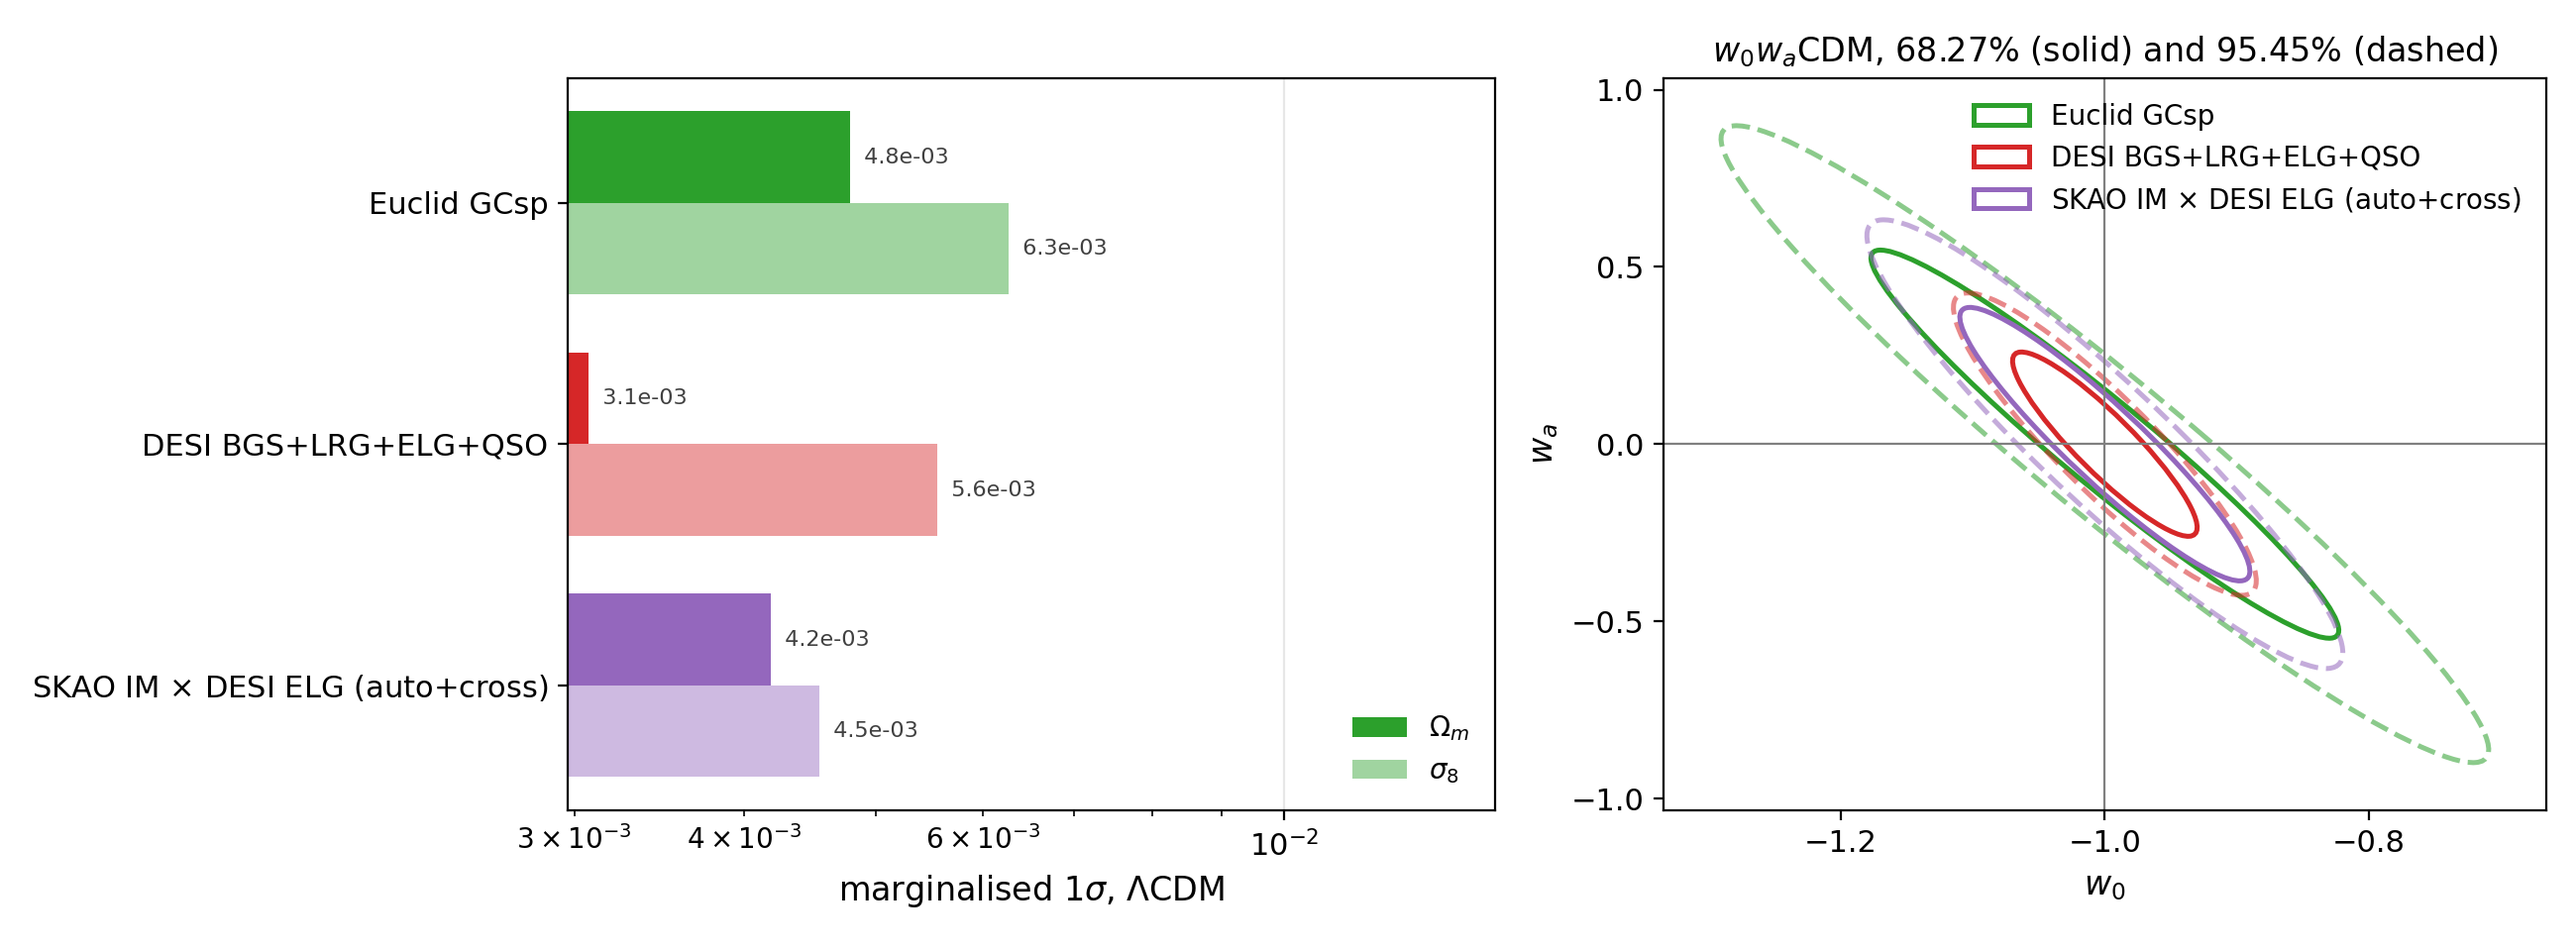
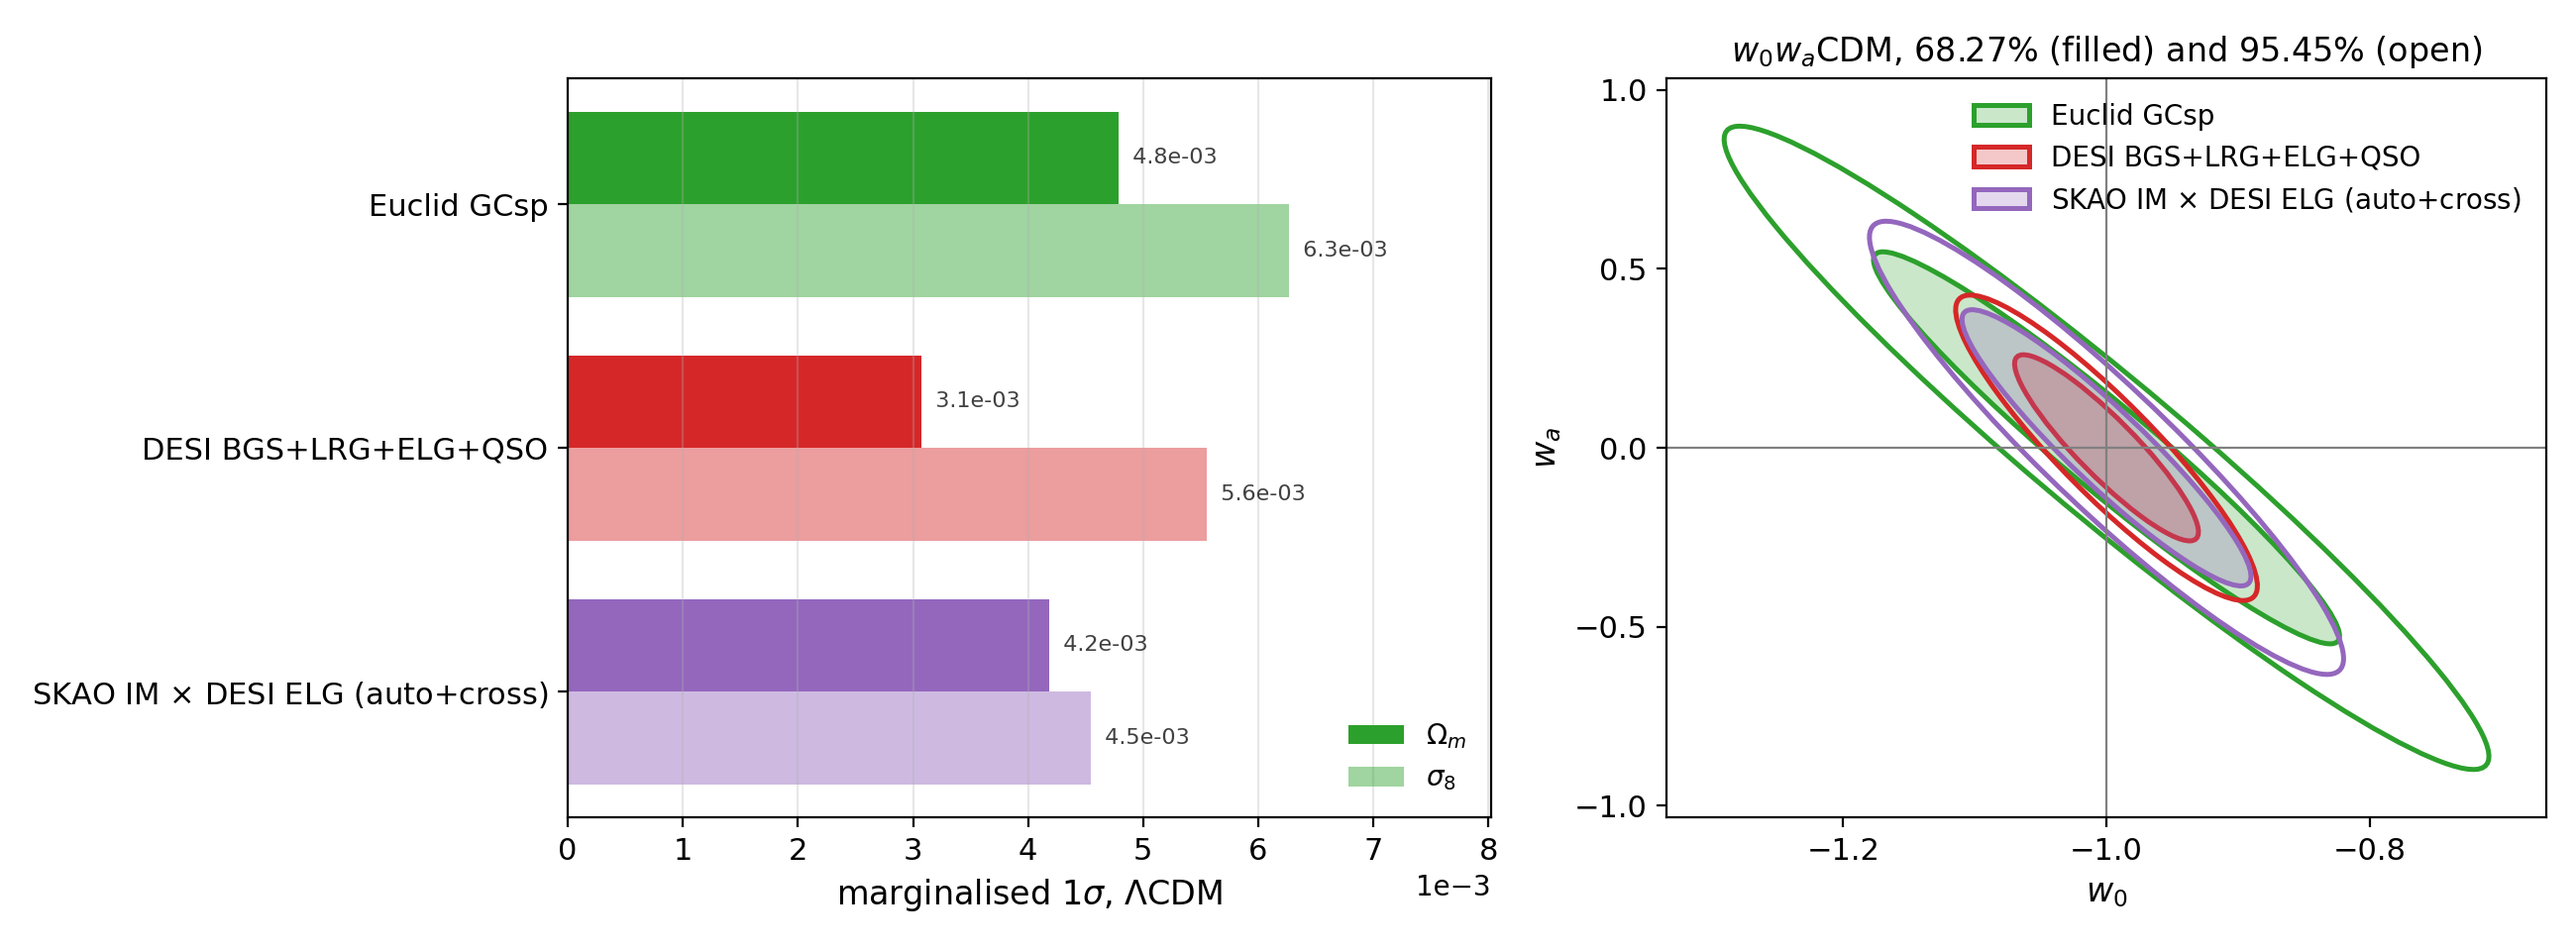
Figure 5: linear bar axis and uniform solid contours
The LCDM bar panel used a log x-axis, so a 3.1e-3 error looked far
smaller than a 4.8e-3 one. Switch to a linear axis with a 1e-3 tick
multiplier, so bar lengths are proportional to the marginalised errors.

In the w0-wa panel, draw every contour solid (no dashed 2-sigma) and
encode the confidence level by fill instead: 68.27% filled, 95.45% open.

diff --git a/paper/scripts/fig5_spectro_survey_comparison.py b/paper/scripts/fig5_spectro_survey_comparison.py
@@ -29,6 +29,7 @@ matplotlib.use("Agg")
 
 import matplotlib.pyplot as plt
 import numpy as np
+from matplotlib.colors import to_rgba
 from matplotlib.patches import Ellipse
 from matplotlib.ticker import MaxNLocator
 
@@ -63,7 +64,7 @@ ENTRIES = (
 )
 PARAMETER_LABELS = {"Omegam": r"$\Omega_m$", "sigma8": r"$\sigma_8$"}
 FIDUCIAL_W0WA = (-1.0, 0.0)
-#: Joint confidence levels of the contours: 68.27% (solid) and 95.45% (dashed).
+#: Joint confidence levels of the contours: 68.27% (filled) and 95.45% (open).
 CONTOUR_SIGMAS = (1.515, 2.486)
 FONT = 12
 
@@ -100,25 +101,24 @@ def w0wa_covariance(report: dict, members: tuple[str, ...]) -> np.ndarray:
 
 
 def draw_ellipse(
-    axis, covariance: np.ndarray, colour: str, label: str, fill_alpha: float = 0.0
+    axis, covariance: np.ndarray, colour: str, label: str, fill_alpha: float = 0.25
 ) -> None:
-    """Draw the 68.27% (solid) and 95.45% (dashed) joint contours at the fiducial point."""
+    """Draw the 68.27% (filled) and 95.45% (open) joint contours at the fiducial point."""
     eigenvalues, eigenvectors = np.linalg.eigh(covariance)
     order = np.argsort(eigenvalues)[::-1]
     eigenvalues = eigenvalues[order]
     eigenvectors = eigenvectors[:, order]
     angle = np.degrees(np.arctan2(eigenvectors[1, 0], eigenvectors[0, 0]))
-    for index, (sigma, linestyle) in enumerate(zip(CONTOUR_SIGMAS, ("-", "--"))):
+    for index, sigma in enumerate(CONTOUR_SIGMAS):
         axis.add_patch(
             Ellipse(
                 FIDUCIAL_W0WA,
                 width=2.0 * sigma * np.sqrt(eigenvalues[0]),
                 height=2.0 * sigma * np.sqrt(eigenvalues[1]),
                 angle=angle,
-                facecolor=colour if (fill_alpha and index == 0) else "none",
+                facecolor=to_rgba(colour, fill_alpha) if index == 0 else "none",
                 edgecolor=colour,
-                alpha=1.0 if index == 0 else 0.55,
-                linestyle=linestyle,
+                linestyle="-",
                 linewidth=1.8,
                 label=label if index == 0 else None,
             )
@@ -129,11 +129,13 @@ def bar_panel(axis, report: dict) -> None:
     """Marginalised LCDM errors on Omega_m and sigma_8, one pair of bars per survey."""
     width = 0.38
     positions = np.arange(len(ENTRIES))
+    largest = 0.0
     for index, parameter in enumerate(("Omegam", "sigma8")):
         values = []
         for _name, _label, _colour, members in ENTRIES:
             names, cov = covariance(report, members)
             values.append(float(np.sqrt(cov[names.index(parameter), names.index(parameter)])))
+        largest = max(largest, max(values))
         axis.barh(
             positions + (index - 0.5) * width,
             values,
@@ -154,8 +156,10 @@ def bar_panel(axis, report: dict) -> None:
     axis.set_yticks(positions)
     axis.set_yticklabels([label for _name, label, _colour, _members in ENTRIES], fontsize=FONT - 1)
     axis.invert_yaxis()
-    axis.set_xscale("log")
-    axis.set_xlim(right=axis.get_xlim()[1] * 2.2)
+    # Linear scale: bar lengths stay proportional to the errors. A log axis made
+    # 3.1e-3 look far smaller than 4.8e-3 and misrepresented the DESI constraint.
+    axis.set_xlim(0.0, largest * 1.28)
+    axis.ticklabel_format(axis="x", style="sci", scilimits=(-3, -3))
     axis.set_xlabel(r"marginalised $1\sigma$, $\Lambda$CDM", fontsize=FONT)
     axis.tick_params(axis="x", labelsize=FONT - 1)
     axis.grid(axis="x", alpha=0.3)
@@ -179,7 +183,7 @@ def ellipse_panel(axis, report: dict) -> None:
     axis.tick_params(labelsize=FONT - 1)
     axis.set_xlabel(r"$w_0$", fontsize=FONT)
     axis.set_ylabel(r"$w_a$", fontsize=FONT)
-    axis.set_title(r"$w_0w_a$CDM, 68.27% (solid) and 95.45% (dashed)", fontsize=FONT)
+    axis.set_title(r"$w_0w_a$CDM, 68.27% (filled) and 95.45% (open)", fontsize=FONT)
     axis.legend(fontsize=FONT - 2, loc="upper right", frameon=False)
 
 
